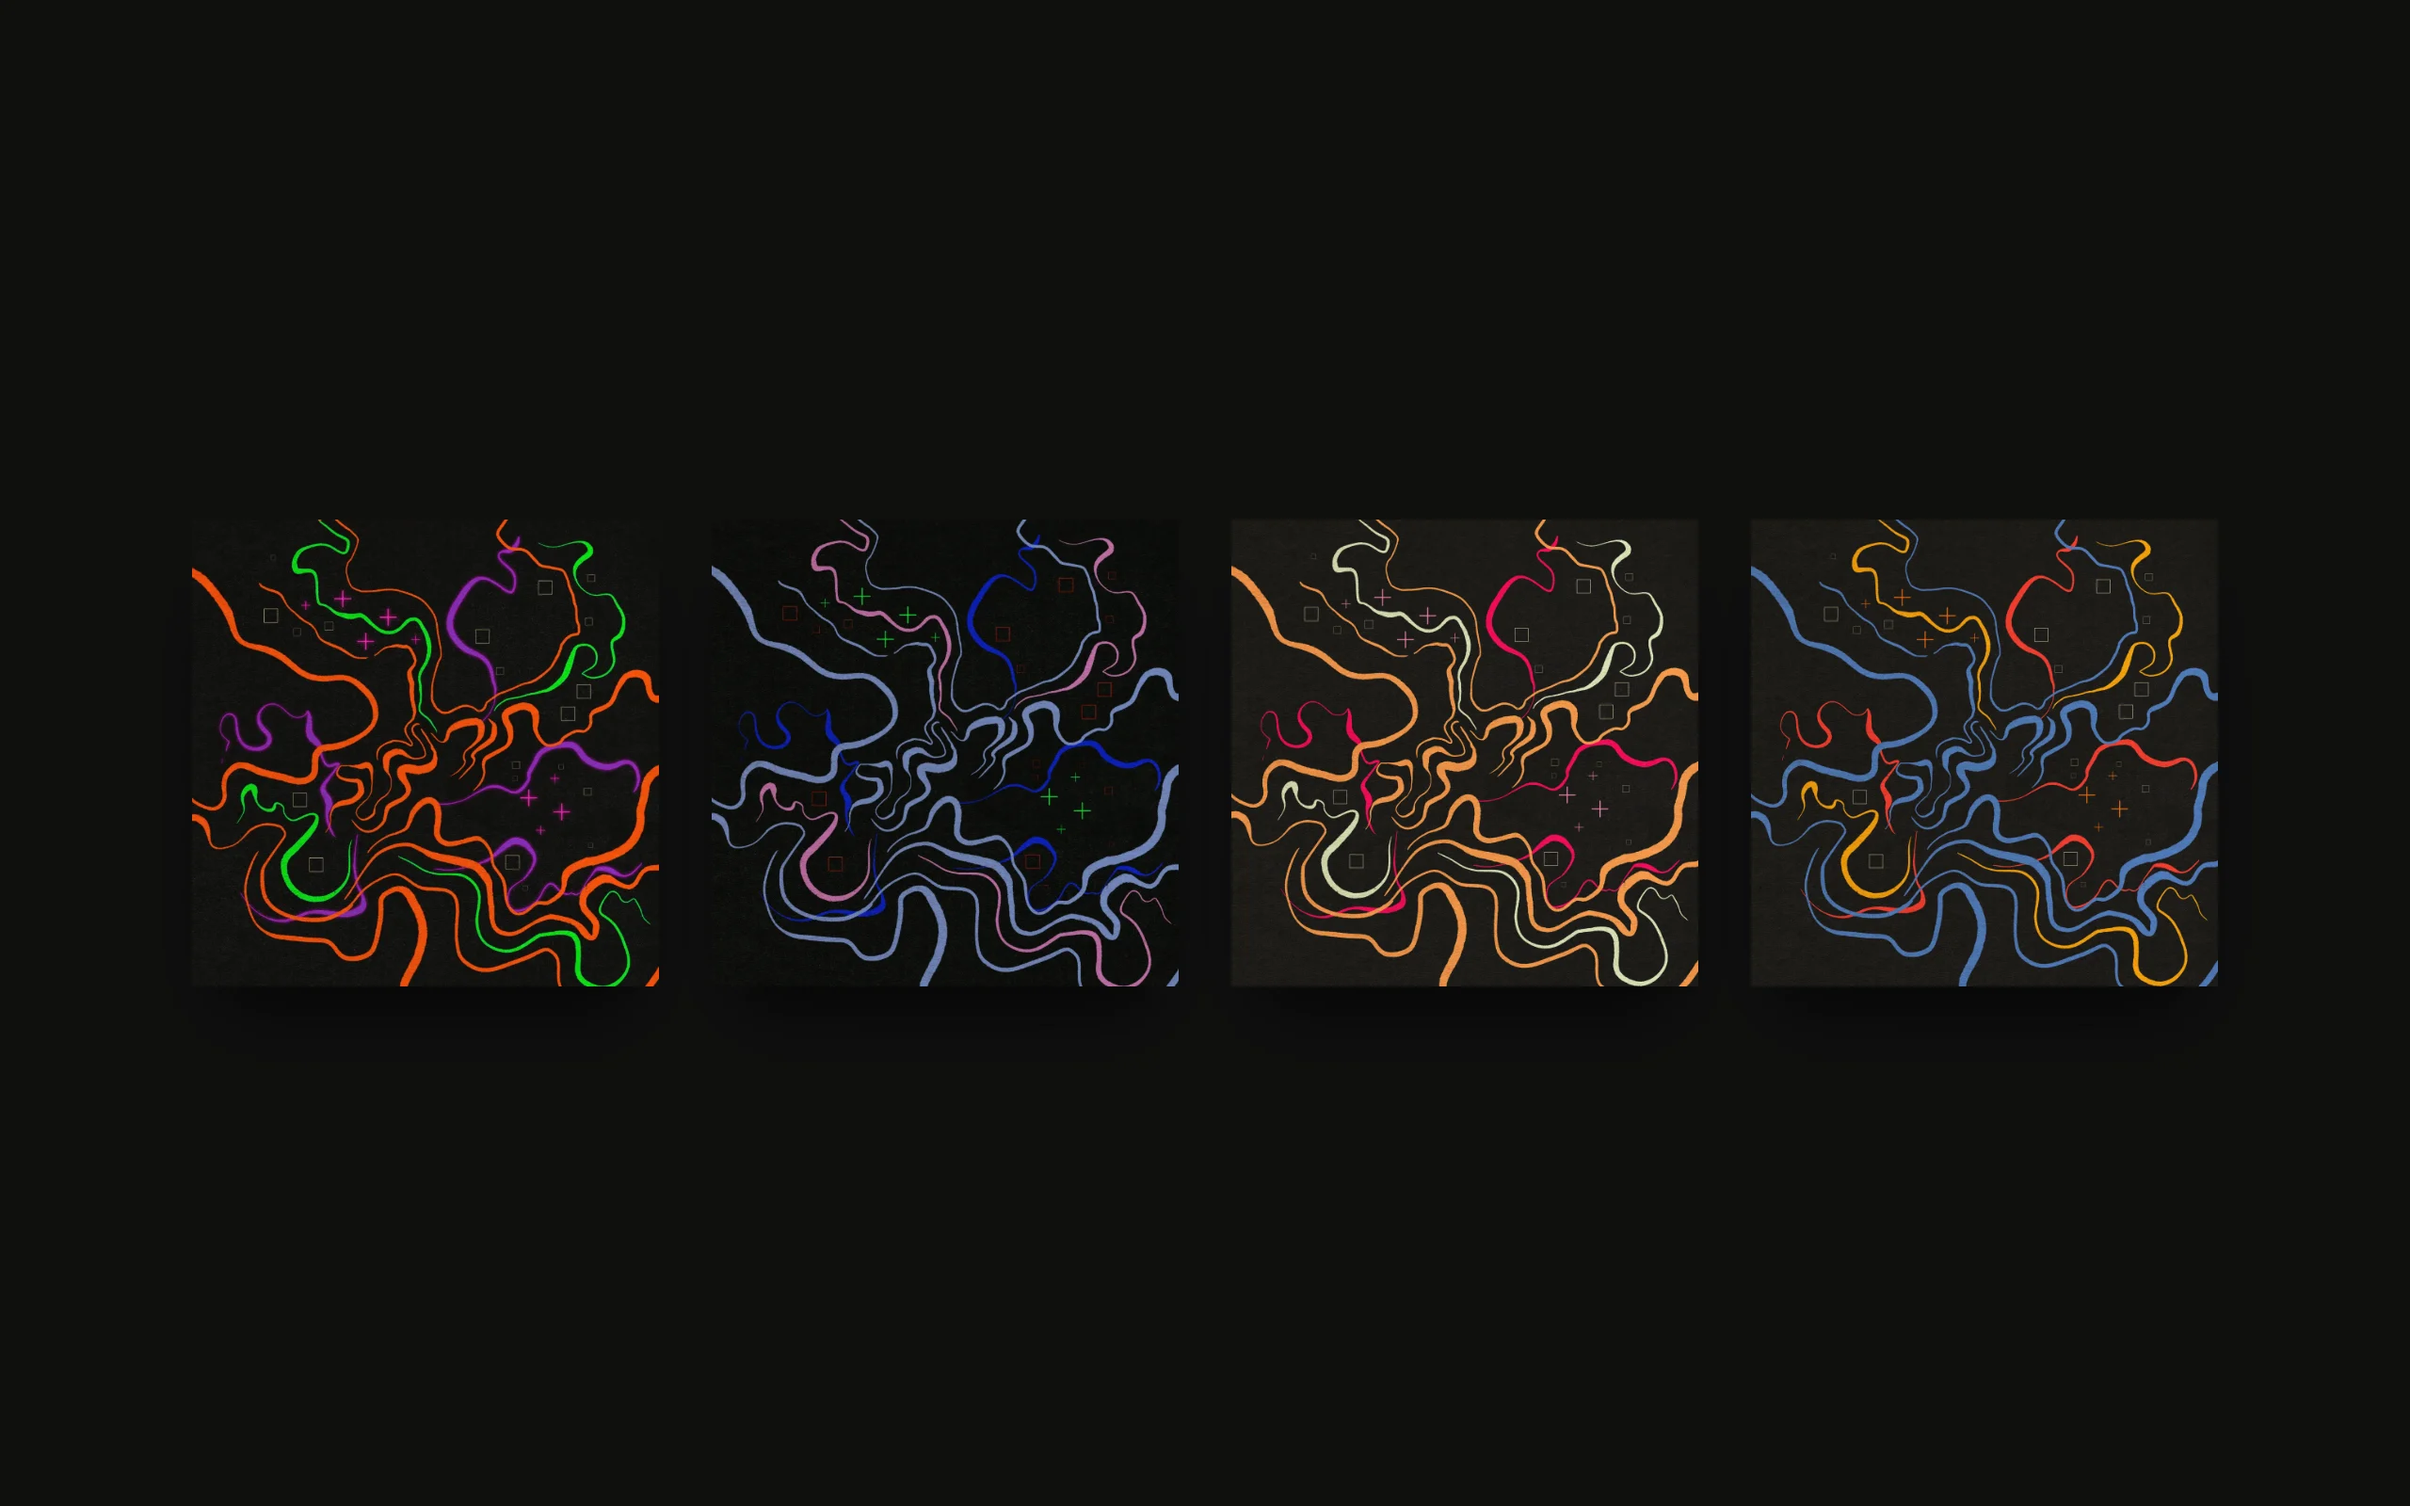
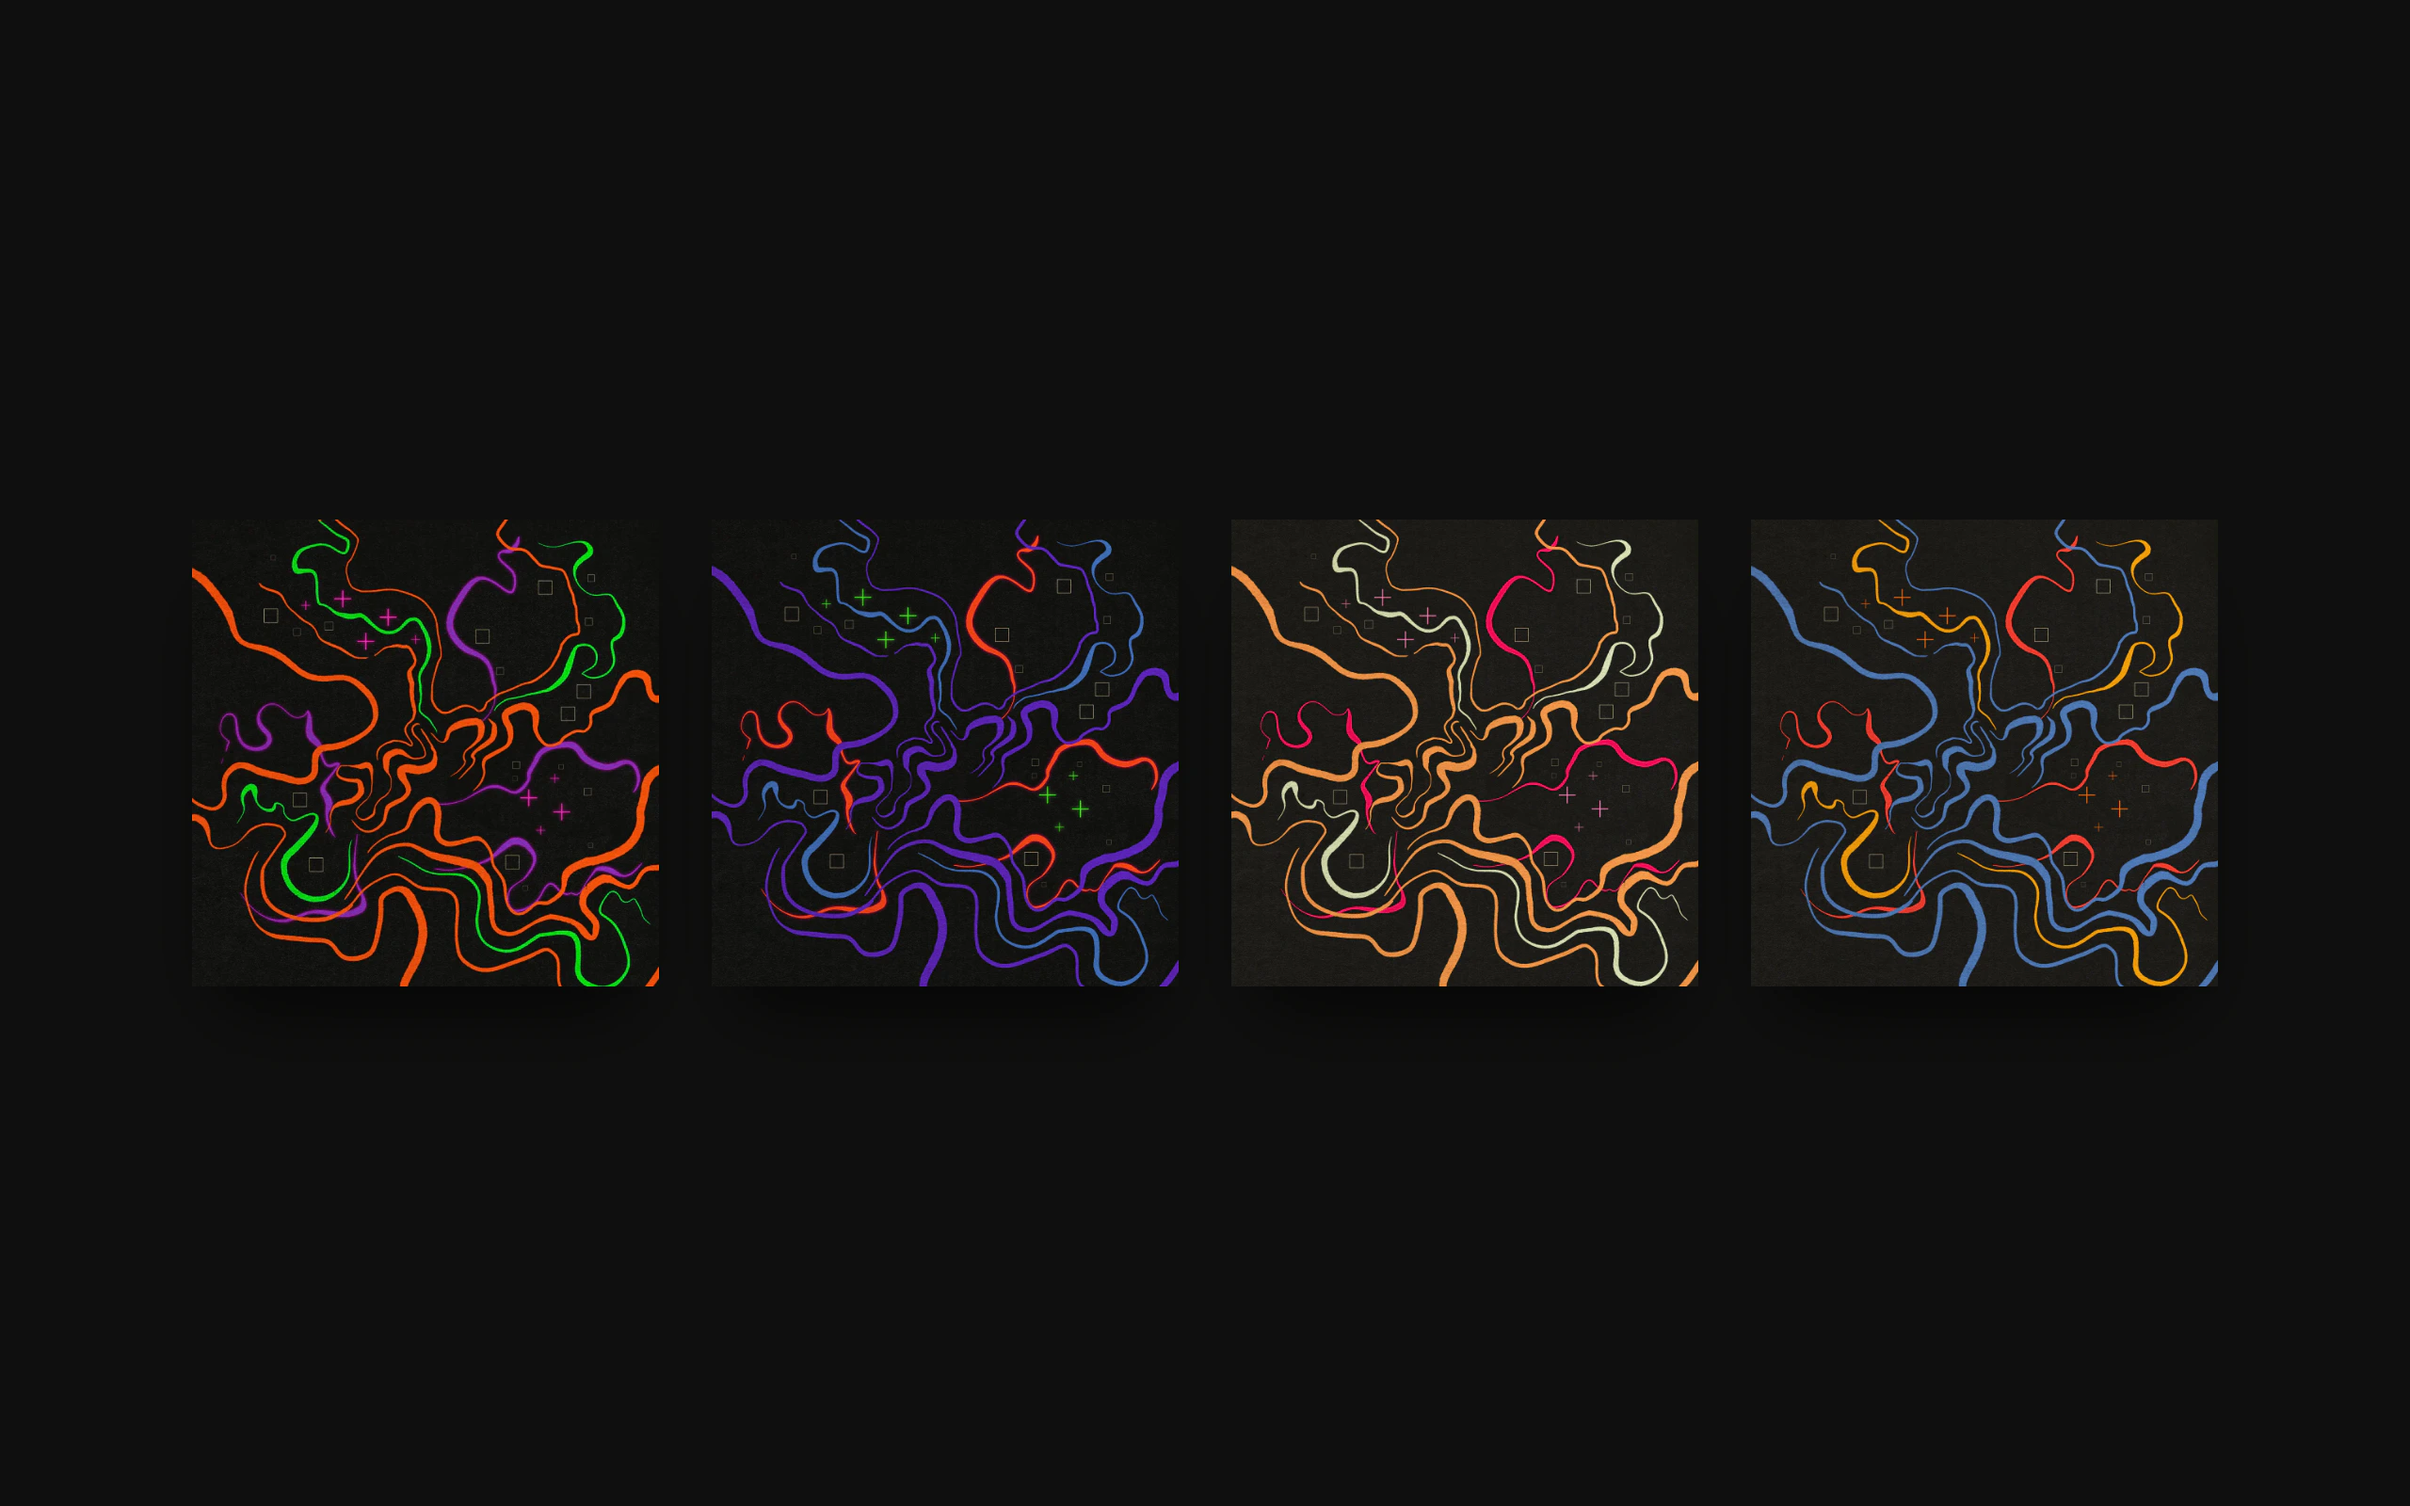
Merc peeks up in the footer; three new Merc drawings; the real September playlist cover
- Footer: Merc rises from the contact block's bottom right when you reach it, says
  "Meet Merc" and links to his page (hidden on that page). Cutout made by
  scripts/prepare-merc-peek.mjs.
- Merc Eats gallery: cowboy, nap and starburst drawings added (drawing-06 to 08);
  prepare-art keeps phone exports after the originals so numbers don't shift.
- Playlist covers: sep26 now uses the artwork that matches Spotify; case-study cover rebuilt.

Changed region(s): [[0.2812, 0.3438, 0.5, 0.6562]]

diff --git a/components/layout/MercPeek.tsx b/components/layout/MercPeek.tsx
@@ -1,0 +1,76 @@
+'use client'
+// Merc peeks up from the bottom right of the footer's contact block once you reach it, and ducks back
+// down when you scroll away. A "Meet Merc" bubble shows briefly when he arrives and again on hover or
+// focus. He links to his page, so he stays hidden on it. Reduced motion: he fades in and out instead.
+
+import Image from 'next/image'
+import Link from 'next/link'
+import { usePathname } from 'next/navigation'
+import { useEffect, useRef, useState } from 'react'
+import { cn } from '@/lib/cn'
+
+export function MercPeek() {
+  const pathname = usePathname()
+  const ref = useRef<HTMLDivElement>(null)
+  const [up, setUp] = useState(false)
+  const [hello, setHello] = useState(false)
+
+  useEffect(() => {
+    const el = ref.current
+    if (!el) return
+    // the slot he rises into: count it reached once most of it is on screen (its bottom 14px sits under the clip edge, so a hover lift never shows his cut-off base)
+    const io = new IntersectionObserver(([e]) => setUp(e.isIntersecting), { threshold: 0.75 })
+    io.observe(el)
+    return () => io.disconnect()
+  }, [])
+
+  // say hi once he's up, then let the bubble go (hover or focus brings it back)
+  useEffect(() => {
+    if (!up) return
+    const show = window.setTimeout(() => setHello(true), 550)
+    const hide = window.setTimeout(() => setHello(false), 3200)
+    return () => {
+      clearTimeout(show)
+      clearTimeout(hide)
+    }
+  }, [up])
+
+  if (pathname === '/work/merc-eats') return null
+
+  return (
+    <div ref={ref} className="absolute right-[var(--gutter)] -bottom-3.5 w-[76px] sm:w-[118px] lg:w-[164px]">
+      <Link
+        href="/work/merc-eats"
+        aria-label="Meet Merc, my cat"
+        tabIndex={up ? 0 : -1}
+        className={cn(
+          'group relative block outline-none',
+          'transition-[translate,opacity] duration-700 ease-[cubic-bezier(0.34,1.45,0.64,1)] motion-reduce:translate-y-0 motion-reduce:duration-300 motion-reduce:ease-out',
+          up ? 'translate-y-0 opacity-100' : 'translate-y-[105%] opacity-0 motion-reduce:opacity-0',
+        )}
+      >
+        <span
+          aria-hidden
+          className={cn(
+            't-label pointer-events-none absolute top-[14%] right-[92%] rounded-full bg-[#f4ecdc] px-3 py-1.5 whitespace-nowrap text-[#0f0f0e] shadow-[var(--shadow-float)]',
+            'origin-right transition-[opacity,scale] duration-300 ease-out motion-reduce:transition-none',
+            'group-hover:scale-100 group-hover:opacity-100 group-focus-visible:scale-100 group-focus-visible:opacity-100',
+            up && hello ? 'scale-100 opacity-100' : 'scale-90 opacity-0',
+          )}
+        >
+          Meet Merc →
+        </span>
+        <Image
+          src="/merc/peek.webp"
+          alt=""
+          width={520}
+          height={550}
+          sizes="(min-width: 1024px) 164px, (min-width: 640px) 118px, 76px"
+          quality={90}
+          className="h-auto w-full origin-bottom transition-transform duration-300 ease-out group-hover:-translate-y-1.5 group-hover:-rotate-2 group-focus-visible:-translate-y-1.5 motion-reduce:transition-none motion-reduce:group-hover:translate-y-0 motion-reduce:group-hover:rotate-0"
+        />
+        <span aria-hidden className="pointer-events-none absolute inset-x-2 -bottom-1 hidden h-1 rounded-full bg-fg group-focus-visible:block" />
+      </Link>
+    </div>
+  )
+}

diff --git a/components/layout/Footer.tsx b/components/layout/Footer.tsx
@@ -2,6 +2,7 @@ import Link from 'next/link'
 import { PixelTiles } from '@/components/fx/PixelTiles'
 import { links, nav, site } from '@/lib/site'
 import { Clock } from './Clock'
+import { MercPeek } from './MercPeek'
 
 export function Footer() {
   const year = new Date().getFullYear()
@@ -18,6 +19,7 @@ export function Footer() {
           >
             {site.email} <span aria-hidden>↗</span>
           </a>
+          <MercPeek />
         </div>
       </div>
 
